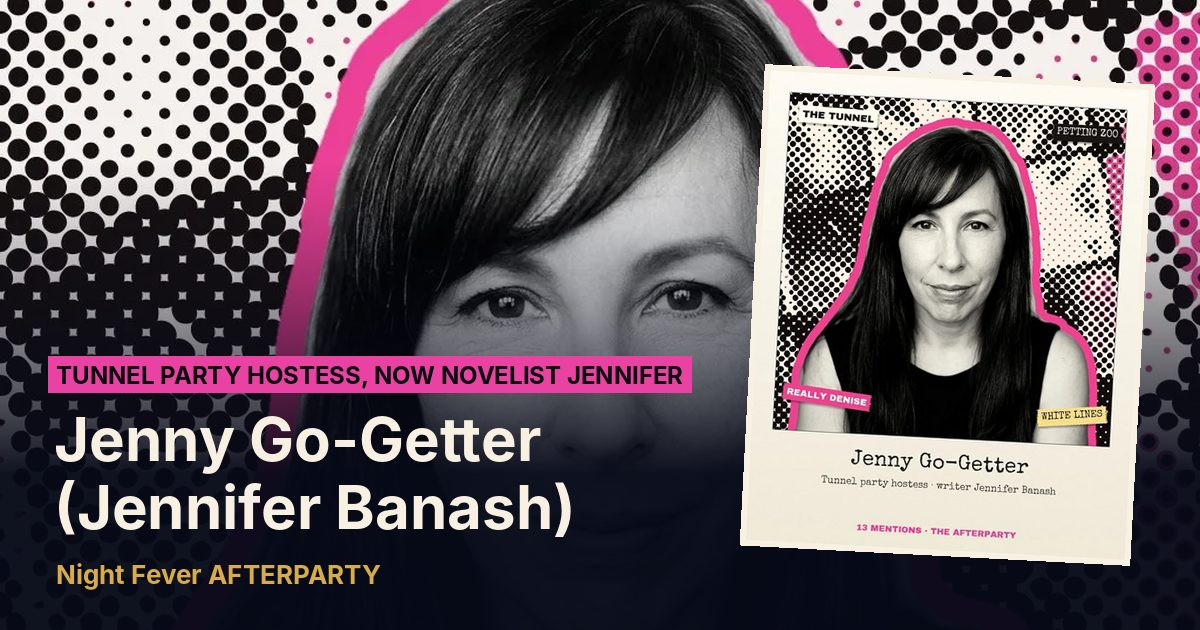
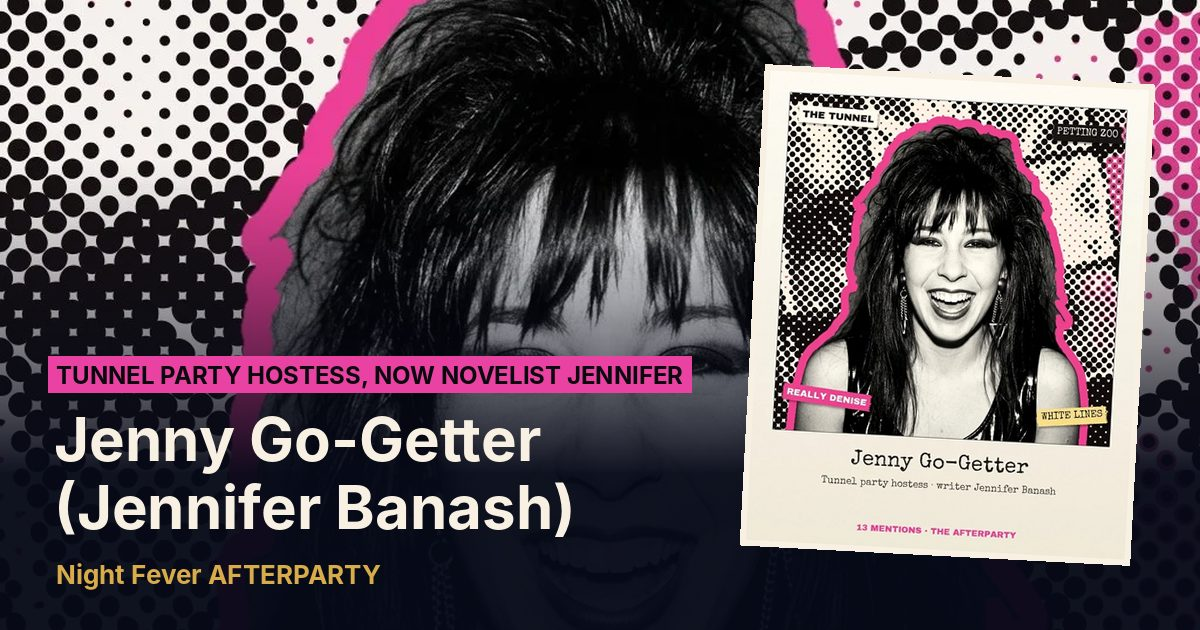
The Jefferson: drawn header and polaroid; Jenny Go-Getter polaroid B (#202)
* The Jefferson: drawn header and marquee polaroid, share picture

Claude-Session: https://claude.ai/code/session_0192FesrRC8W7yiuXJ32r3NS

* Jenny Go-Getter: polaroid B (Lisa's pick), share picture

Claude-Session: https://claude.ai/code/session_0192FesrRC8W7yiuXJ32r3NS

---------

diff --git a/src/data/club-profiles.ts b/src/data/club-profiles.ts
@@ -28,6 +28,9 @@ import limelightPolaroid from "@/assets/clubs/limelight-polaroid.webp";
 import grapePhoto from "@/assets/clubs/gilded-grape-photo.webp";
 import grapePhotoPhone from "@/assets/clubs/gilded-grape-photo-phone.webp";
 import grapePolaroid from "@/assets/clubs/gilded-grape-polaroid.webp";
+import jeffersonPhoto from "@/assets/clubs/jefferson-photo.webp";
+import jeffersonPhotoPhone from "@/assets/clubs/jefferson-photo-phone.webp";
+import jeffersonPolaroid from "@/assets/clubs/jefferson-polaroid.webp";
 import quickPhoto from "@/assets/clubs/quick-photo.webp";
 import quickPhotoPhone from "@/assets/clubs/quick-photo-phone.webp";
 import quickPolaroid from "@/assets/clubs/quick-polaroid.webp";
@@ -166,6 +169,7 @@ const MARS_CREDIT = "Header and polaroid: a night at Mars drawn for the AFTERPAR
 const ROBOTS_CREDIT = "Header: a Save the Robots morning drawn for the AFTERPARTY. Polaroid: Save the Robots after-hours Saturdays card - Gallery 98";
 const XENON_CREDIT = "Header: a night at Xenon drawn for the AFTERPARTY. Polaroid: Everybody Hates Punk poster, Xenon, 1978 - Gallery 98";
 
+const JEFFERSON_CREDIT = "Header and polaroid: a night at the Jefferson and its marquee on 14th Street, drawn for the AFTERPARTY - no photo of the Jefferson is free to use";
 const GILDED_GRAPE_CREDIT = "Header and polaroid: a night at the Gilded Grape drawn for the AFTERPARTY - no photo of the Gilded Grape is free to use";
 const QUICK_CREDIT = "Header and polaroid: a night at Quick drawn for the AFTERPARTY - no photo of Quick is free to use";
 const BUILDING_CREDIT = "Header and polaroid: a night at the Building drawn for the AFTERPARTY - no photo of the Building is free to use";
@@ -965,7 +969,7 @@ export const CLUB_PROFILES: Record<string, ClubProfile> = {
   // Standard Hotels, W Magazine and Vice (opened 1989 in a former Con Ed substation); the Gilded Grape, Quick and Club 82 from
   // the guests' own stories (checked 19 Nov 2026). Pictures: sources sheet, Round 12.
   // Top Google search pages (Lisa, 28 Nov 2026: "do all 1-5"). Facts: Cinema Treasures, the Daily Beast's after-hours story,
-  // Arthur Weinstein's NYT obituary (16 Jul 2008) and the episodes. Header and polaroid to come, drawn on Lisa's Mac.
+  // Arthur Weinstein's NYT obituary (16 Jul 2008) and the episodes. Header and polaroid drawn for the AFTERPARTY (Gemini, 28 Nov).
   jefferson: {
     opened: "New Year's 1981",
     closed: "c. 1982",
@@ -987,6 +991,7 @@ export const CLUB_PROFILES: Record<string, ClubProfile> = {
       { episode: "s02e03", who: "James St. James", time: "00:17:53", context: "James to Susanne Bartsch about her first nights in New York, 1981", quote: "When you came to New York, it was '81. And I remember you saying that one of the first places you went to was the Jefferson, Arthur Weinstein's after-hours club. It felt European to you. It was the one place in New York that felt fabulous." },
       { episode: "s03e06", who: "Eric Goode", time: "00:13:32", context: "Arthur Weinstein's after-hours clubs", quote: "So Arthur did the Jefferson, which was in the Jefferson Theater, then the Continental. And we all thought Arthur was going to get shot by the police, because he brought down the Ninth and Tenth Precinct, basically wearing a wire and busting corrupt cops. That was the time when the cops were corrupt, the mafia, of course, was corrupt, the whole city was corrupt, and it was incredible." },
     ],
+    portrait: { photo: jeffersonPhoto, phone: jeffersonPhotoPhone, polaroid: jeffersonPolaroid, focus: "50%", credit: JEFFERSON_CREDIT },
   },
   "gilded-grape": {
     opened: "Early 70s",
